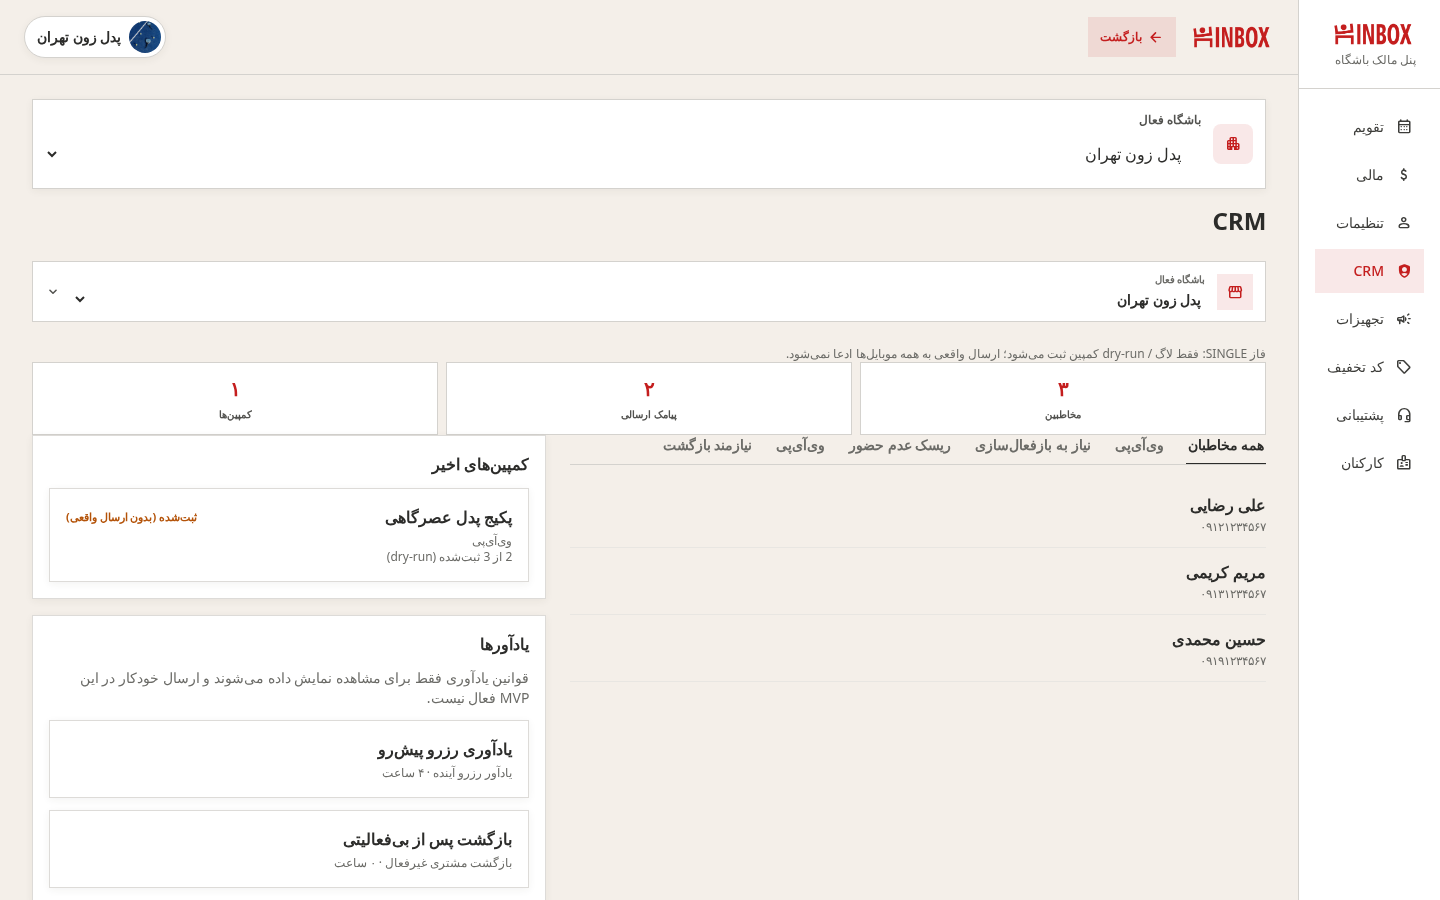
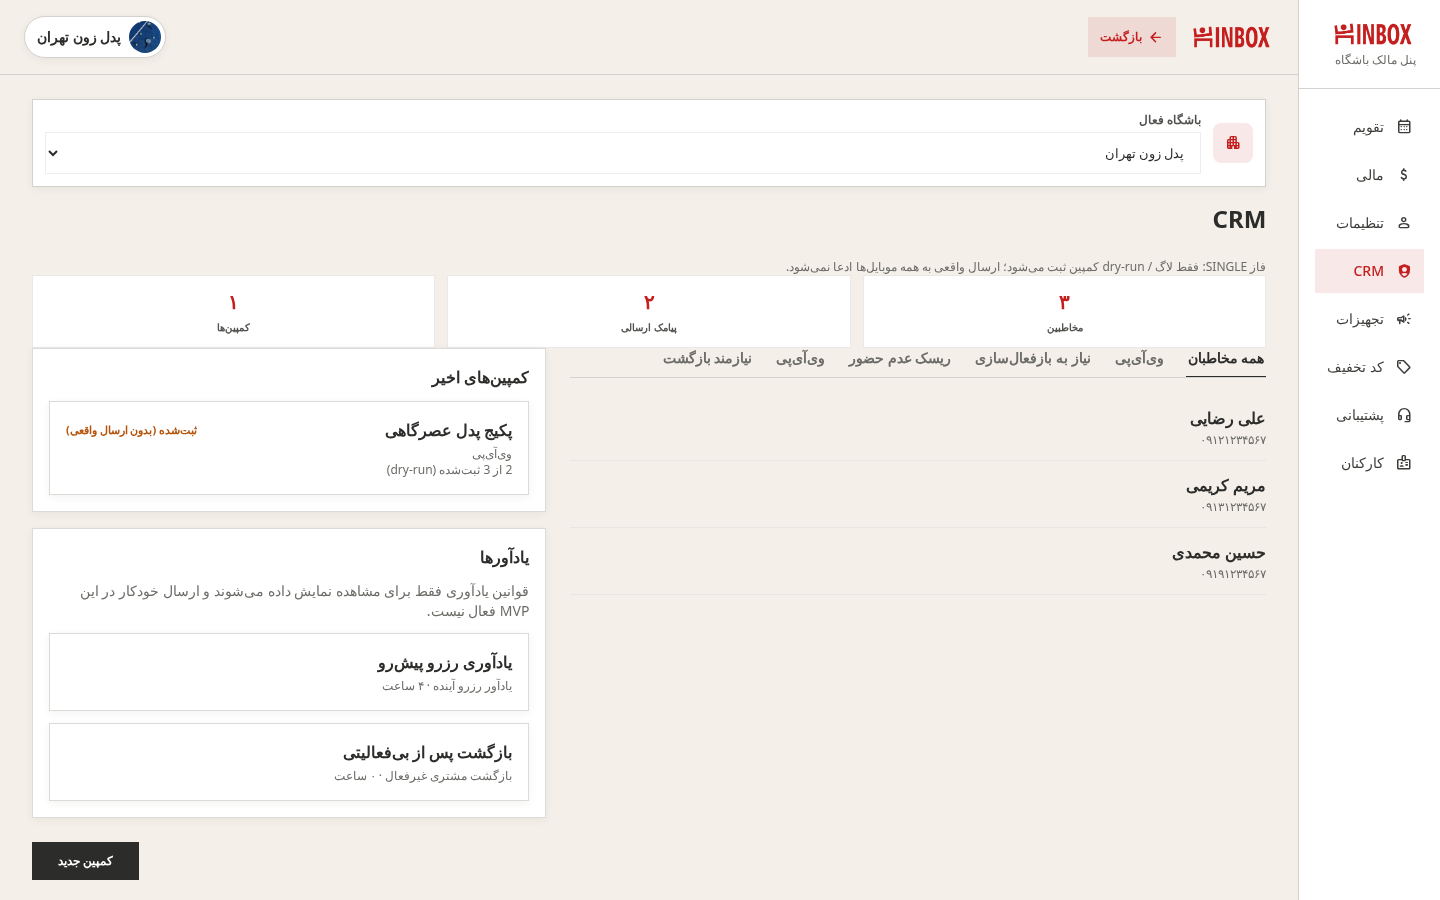
fidelity: owner crm/staff/single club card

diff --git a/app/assets/css/main.css b/app/assets/css/main.css
@@ -4215,3 +4215,12 @@
 }
 .neo-input:focus, .neo-select:focus, .neo-textarea:focus, .tail-input:focus, .tail-select:focus, .tail-textarea:focus { border: 1px solid #C41E1E; }
 @media (min-width: 431px) { .neo-input, .neo-select, .neo-textarea, .tail-input, .tail-select, .tail-textarea { font-size: 13px; } }
+/* SoT owner: single in-page active-club card (layout switcher wins when shown) */
+.canva-club-switcher ~ * .owner-rclubcard, .canva-club-switcher ~ .owner-rclubcard { display: none !important; }
+.canva-sot-actions .canva-gate-btn-primary { width: auto !important; padding: 9px 22px; }
+@media (min-width: 431px) {
+  .canva-crm-cta-row { display: flex; justify-content: flex-end; }
+  .canva-crm-cta-row .canva-black-cta { width: auto; padding: 9px 26px; font-size: 12px; }
+  .canva-crm-stats { gap: 12px; }
+  .canva-crm-stat { border: 1px solid rgba(44,44,42,.1); background: #fff; }
+}

diff --git a/app/components/owner/OwnerWorkersPanel.vue b/app/components/owner/OwnerWorkersPanel.vue
@@ -233,7 +233,7 @@ async function confirmDelete() {
   <div :class="embedded ? '' : 'venus-page-stack'">
     <CanvaSubpageHeader v-if="!embedded" to="/owner/calendar?more=1" :title="t('owner.workers')" />
     <OwnerActiveClubBar v-if="!embedded" class="mb-3" />
-    <div v-if="!embedded" class="flex flex-wrap items-center justify-end gap-3">
+    <div v-if="!embedded" class="flex flex-wrap items-center justify-start gap-3 canva-sot-actions">
       <button type="button" class="canva-gate-btn-primary text-sm" @click="openAdd">{{ t('owner.workersPage.addWorker') }}</button>
     </div>
     <p v-if="!embedded" class="text-sm text-brand-gray-600">{{ t('owner.workersPage.subtitle') }}</p>

diff --git a/app/pages/owner/crm.vue b/app/pages/owner/crm.vue
@@ -367,7 +367,7 @@ async function send() {
     </AppAsyncState>
 
     <div class="fixed inset-x-0 z-[40] px-4 max-[430px]:bottom-[calc(var(--sz-tab-bar-height)+var(--sz-safe-bottom)+0.75rem)] min-[431px]:static min-[431px]:z-auto min-[431px]:px-0">
-      <div class="mx-auto w-full max-[430px]:max-w-[var(--sz-phone-width)] min-[431px]:max-w-none">
+      <div class="mx-auto w-full max-[430px]:max-w-[var(--sz-phone-width)] min-[431px]:max-w-none canva-crm-cta-row">
         <button type="button" class="canva-black-cta" @click="openWizard">
           {{ t('owner.smsWizard.openCta') }}
         </button>

diff --git a/design-reference/GAPS.md b/design-reference/GAPS.md
@@ -61,3 +61,6 @@ Do not reopen rows already `fixed` or `kept-product` unless a fresh screenshot p
 | owner-* | club switcher in top bar + back pill (SoT: in-page selector only) | kept-product |
 | owner-calendar | SoT 380px booking-detail aside; product grid with select checkboxes, empty day in seed | kept-product (data) |
 | owner-finance | dark total card, KPI tiles, 7-day bars match | ok |
+| owner-crm/staff/support/settings | duplicate in-page active-club card hidden when layout switcher shows (SoT: one card) | fixed |
+| owner-crm | KPI tiles gapped/bordered; "new campaign" auto-width at inline-end | fixed |
+| owner-staff | "add worker" auto width at start (was full-width) | fixed |
